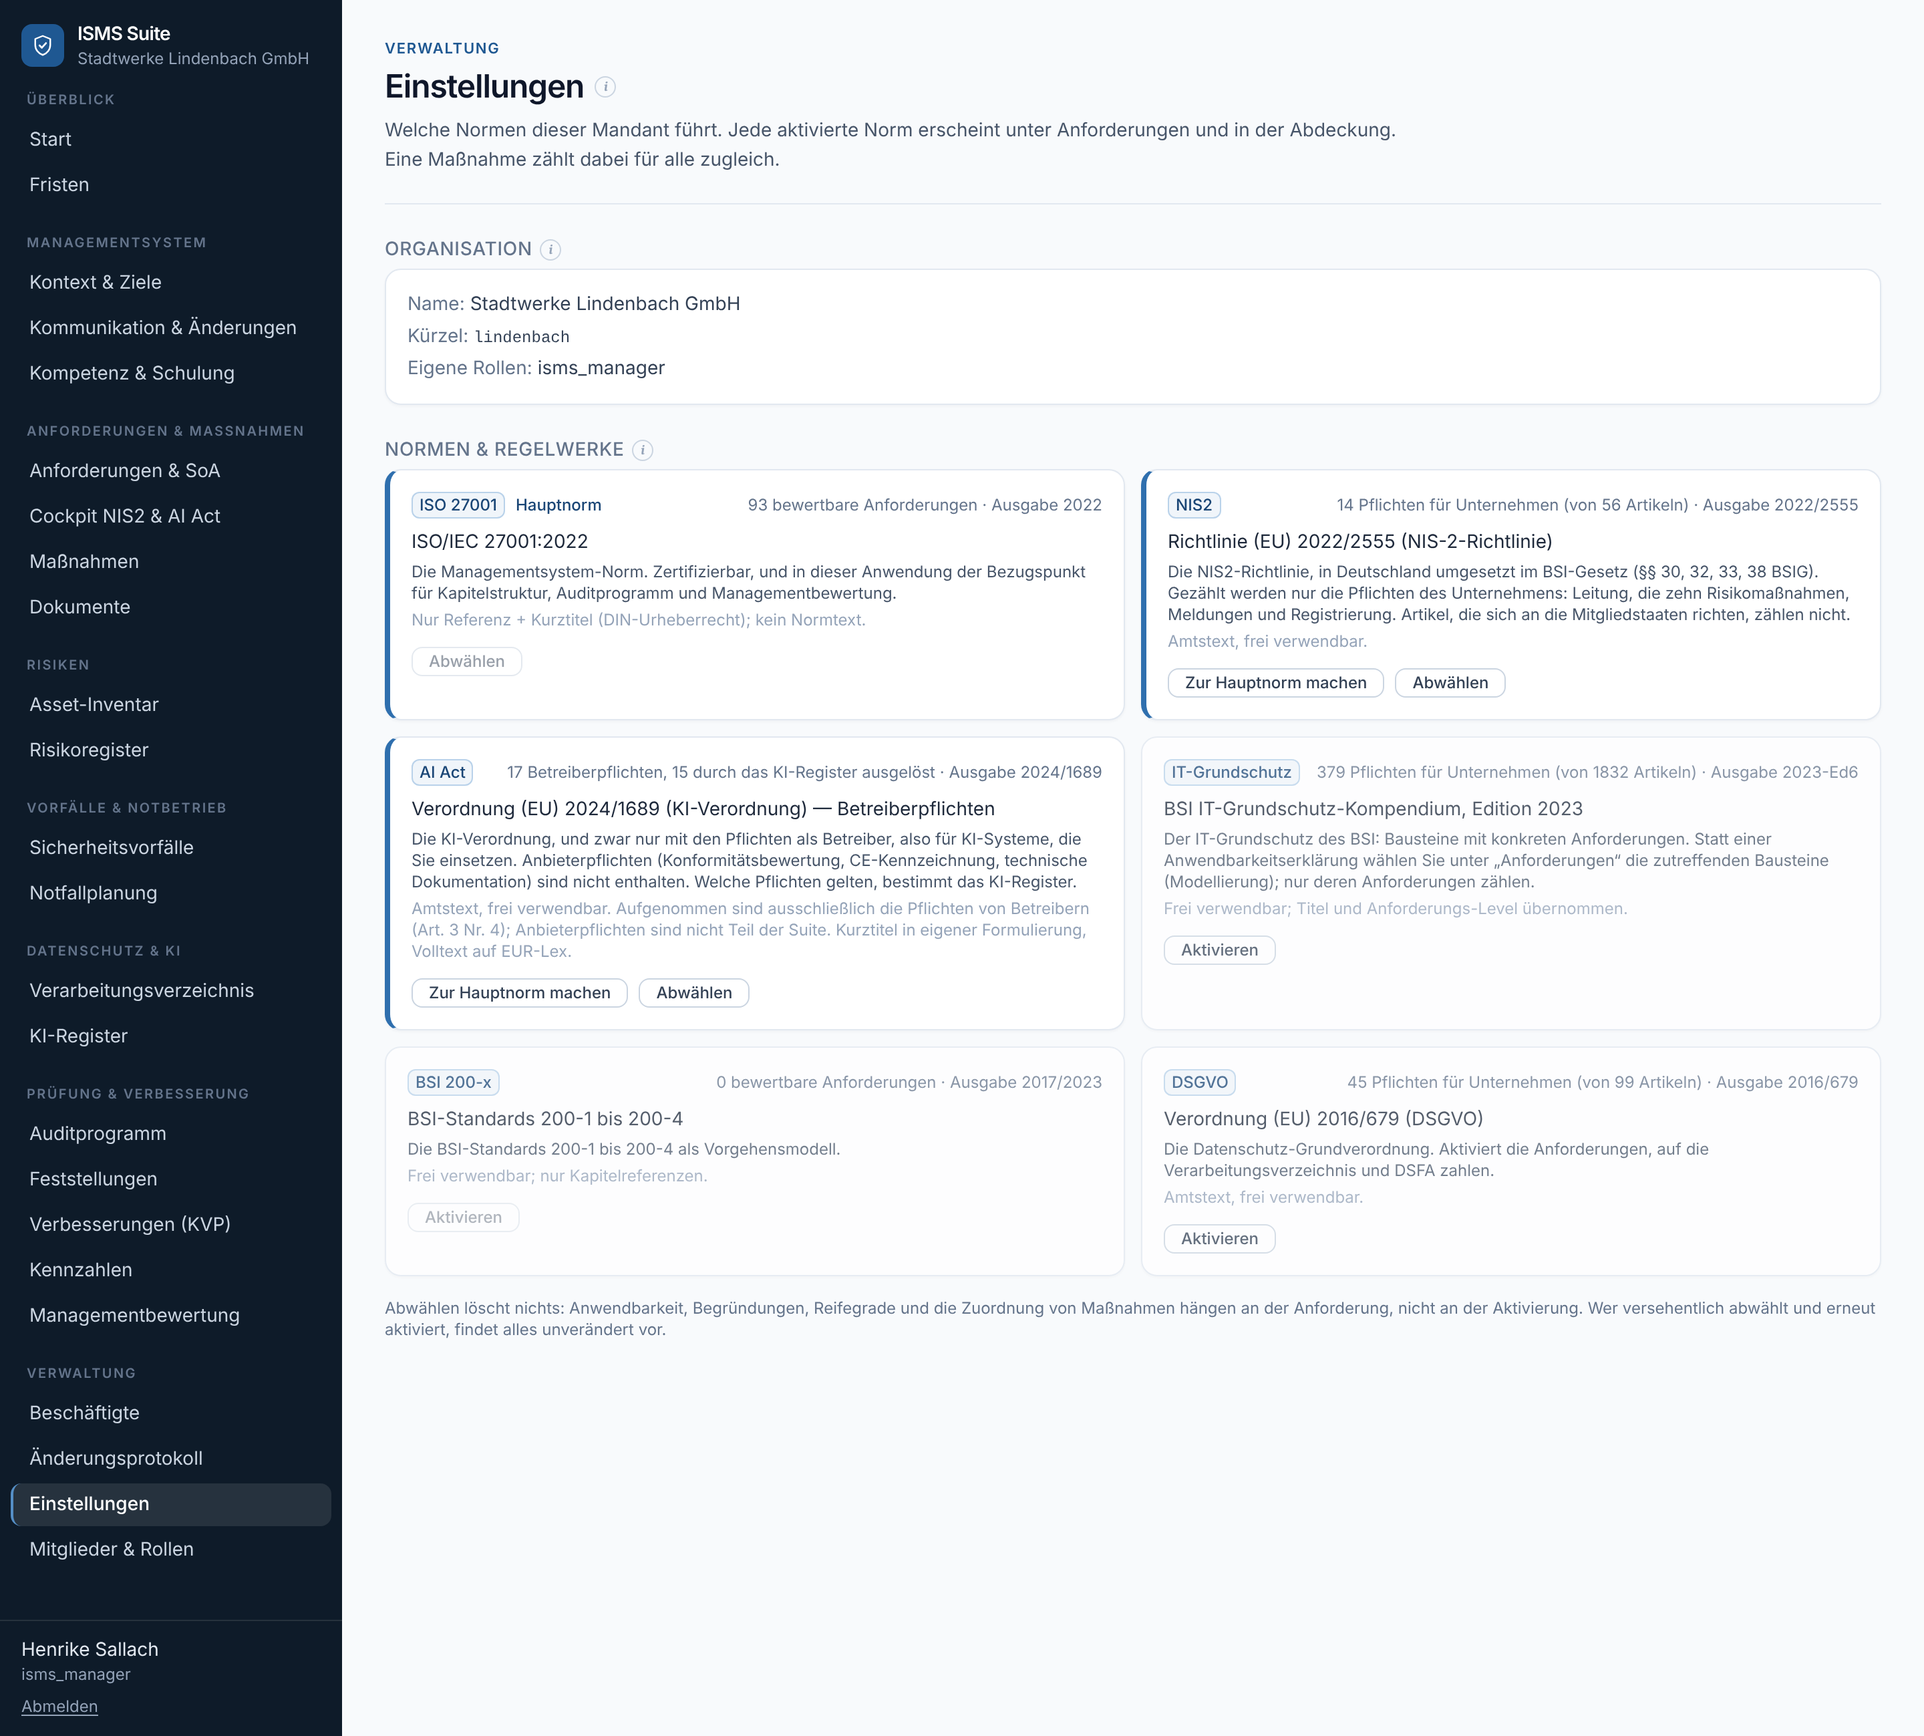
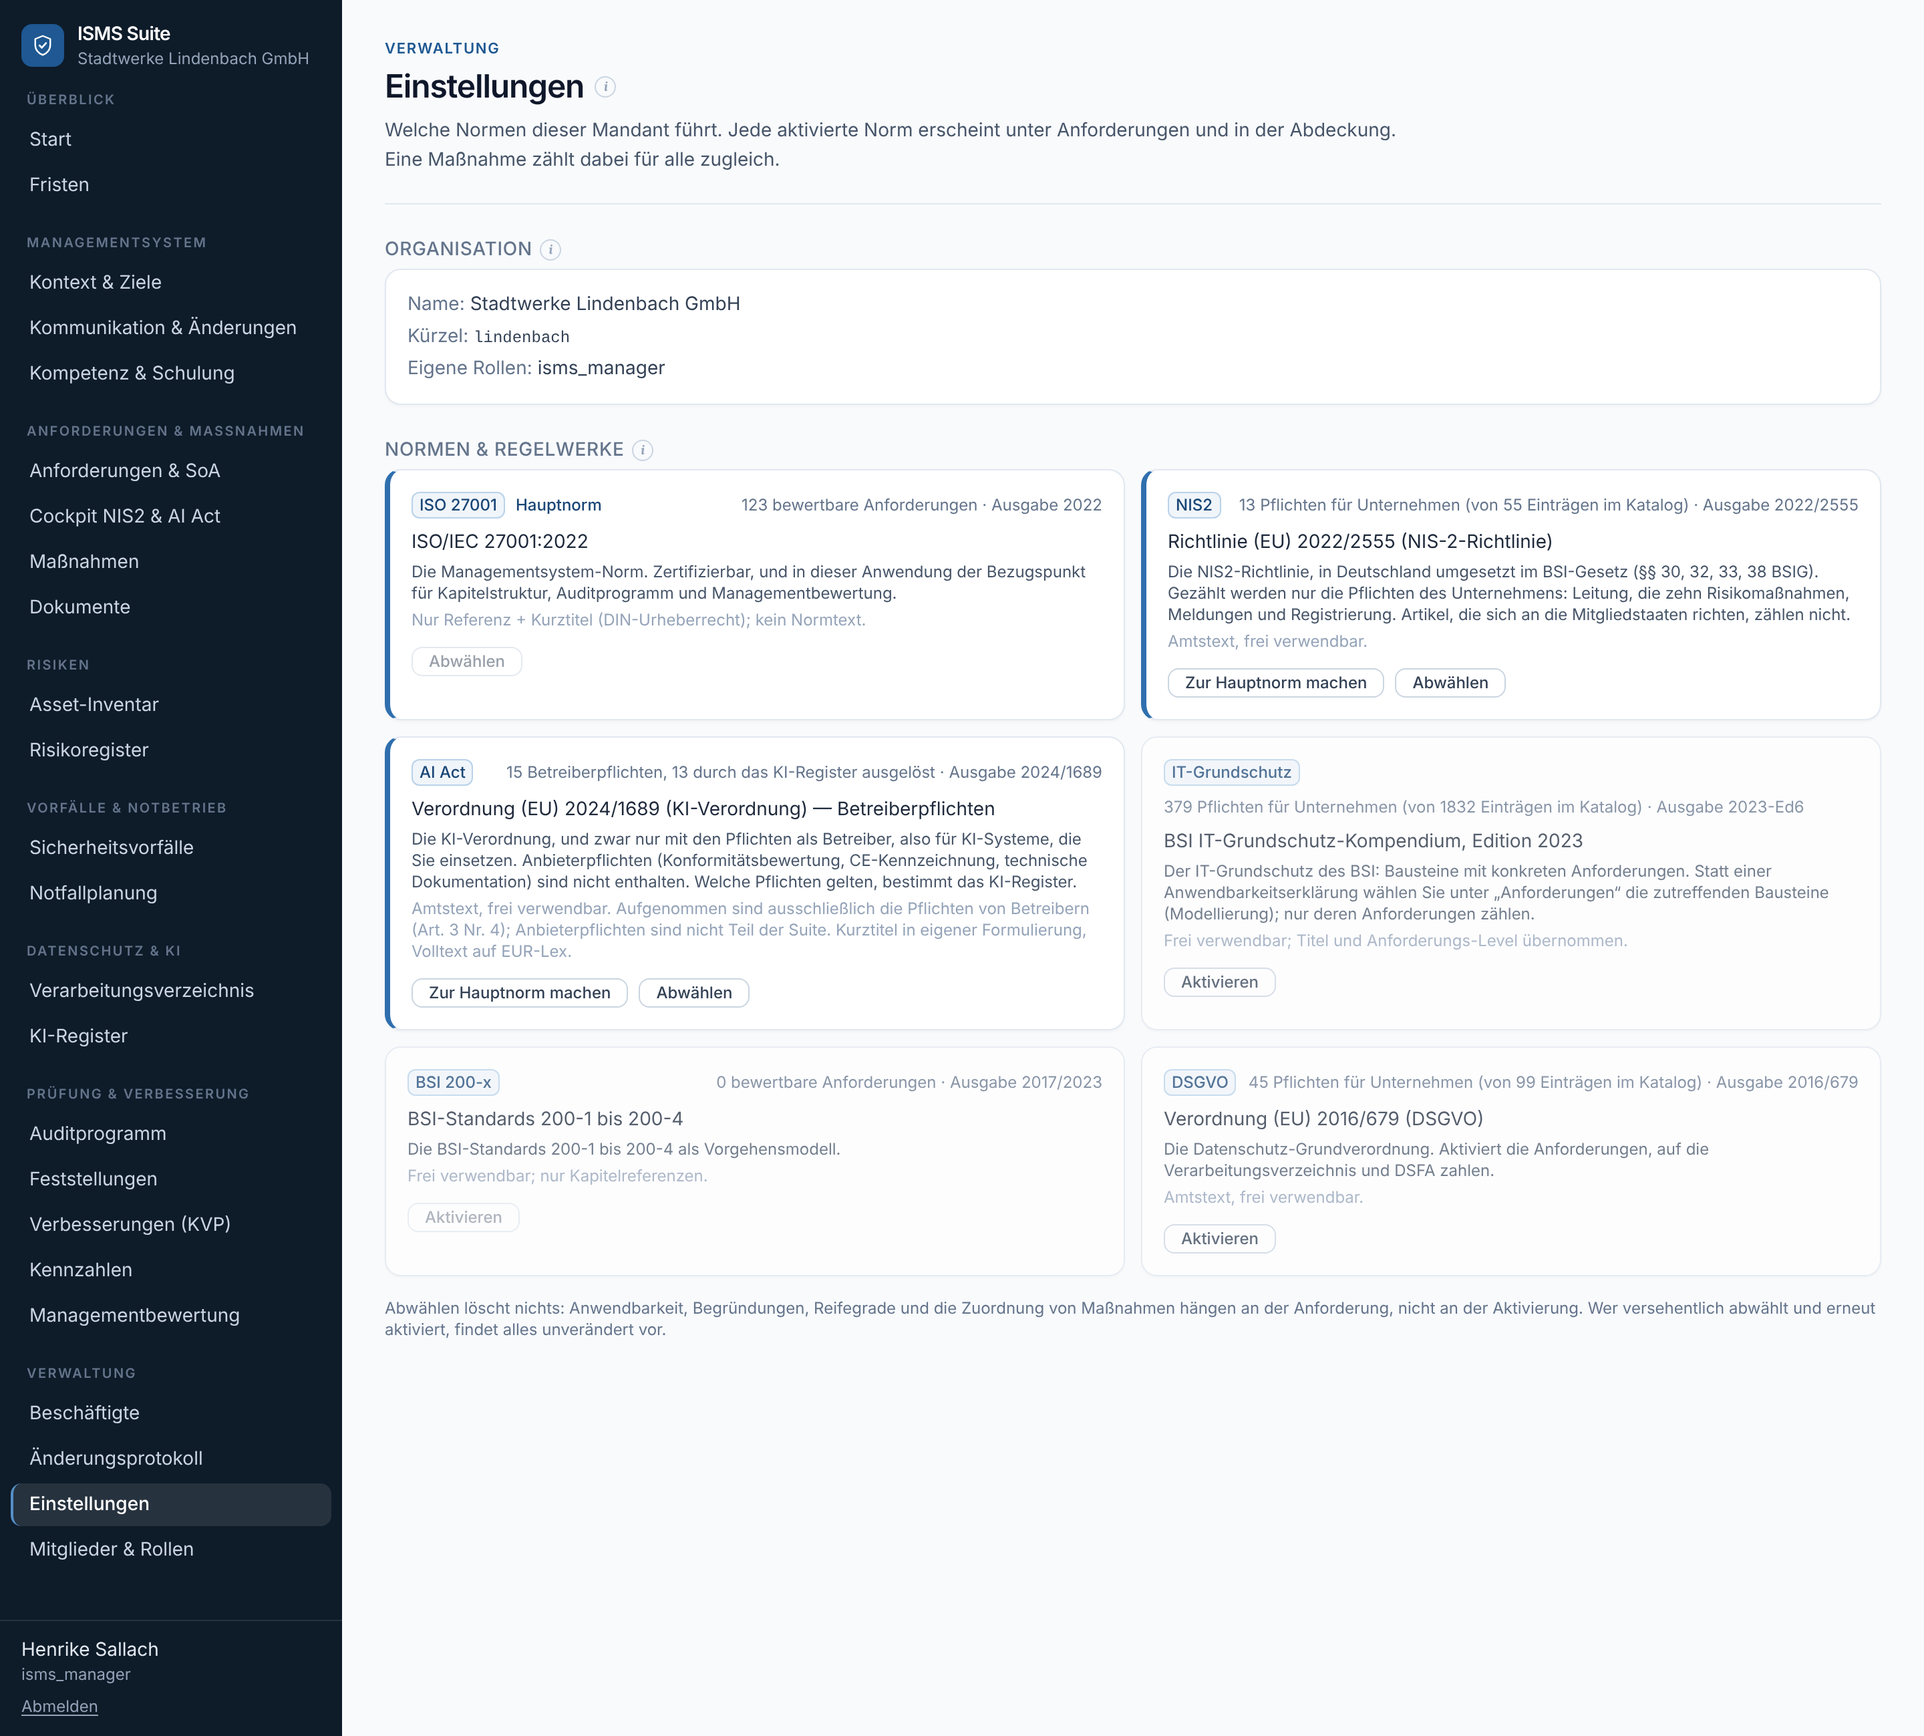
Count frameworks in the settings like the cockpit does
The settings counted requirements by kind, so a parent article such as
NIS2 Art. 21 counted next to its ten letters (14 instead of 13) and ISO
27001 showed 93 next to the 123 of the readiness ring. Both counts now
come from v_assessable_requirement, the rows the cockpit, the SoA and
certification readiness use; a catalogue of chapter references alone
(BSI 200-x) still reads 0 and cannot be activated.

Claude-Session: https://claude.ai/code/session_01XtthhpUTU3sfnsjFJuKoAu

Changed region(s): [[0.5938, 0.4365, 0.9375, 0.5924], [0.7188, 0.2806, 0.875, 0.3118]]

diff --git a/apps/api/src/modules/catalog/catalog.service.ts b/apps/api/src/modules/catalog/catalog.service.ts
@@ -4,6 +4,9 @@ import type { ActivateFrameworkDto } from '@isms/shared';
 import { and, asc, eq, isNull, sql } from 'drizzle-orm';
 import { DbService } from '../../kernel/db/db.service';
 
+/** Hat der Katalog überhaupt bewertbare Einträge jenseits bloßer Kapitelverweise? */
+const ASSESSABLE_CATALOGUE = sql`EXISTS (SELECT 1 FROM v_assessable_requirement w WHERE w.framework_id = ${schema.framework.id} AND w.kind <> 'clause')`;
+
 @Injectable()
 export class CatalogService {
   constructor(private readonly dbs: DbService) {}
@@ -23,9 +26,14 @@ export class CatalogService {
           isActive: sql<boolean>`${schema.tenantFramework.tenantId} IS NOT NULL`,
           isPrimary: sql<boolean>`COALESCE(${schema.tenantFramework.isPrimary}, false)`,
           activatedAt: schema.tenantFramework.activatedAt,
-          requirementCount: sql<number>`(SELECT count(*)::int FROM requirement r WHERE r.framework_id = ${schema.framework.id} AND r.kind IN ('control','anforderung','article','paragraph'))`,
-          // IT-Grundschutz: nur Anforderungen modellierter Bausteine in der gewählten Variante
-          inScopeCount: sql<number>`(SELECT count(*)::int FROM requirement r WHERE r.framework_id = ${schema.framework.id} AND r.kind IN ('control','anforderung','article','paragraph') AND requirement_in_scope(${tenantId}, r.id))`,
+          // Gezählt wird wie im Cockpit und bei der Zertifizierungsreife: die bewertbaren Einträge
+          // aus v_assessable_requirement. Ein übergeordneter Artikel (NIS2 Art. 21 über seinen zehn
+          // Buchstaben) zählt dort nicht mit, ISO-Kapitelpunkte schon. Ein Katalog, der nur aus
+          // Kapitelverweisen besteht (BSI-Standards 200-x), bleibt bei 0 und ist nicht aktivierbar.
+          requirementCount: sql<number>`(SELECT count(*)::int FROM v_assessable_requirement v WHERE v.framework_id = ${schema.framework.id} AND ${ASSESSABLE_CATALOGUE})`,
+          // Im Umfang: NIS2 und DSGVO nur Pflichten des Unternehmens, IT-Grundschutz nur modellierte
+          // Bausteine, AI Act nur, was das KI-Register auslöst.
+          inScopeCount: sql<number>`(SELECT count(*)::int FROM v_assessable_requirement v WHERE v.framework_id = ${schema.framework.id} AND ${ASSESSABLE_CATALOGUE} AND requirement_in_scope(${tenantId}, v.id))`,
           modular: sql<boolean>`EXISTS (SELECT 1 FROM requirement b WHERE b.framework_id = ${schema.framework.id} AND b.kind = 'baustein')`,
           protectionVariant: schema.tenantFramework.protectionVariant,
         })

diff --git a/apps/api/test/auth.e2e.test.ts b/apps/api/test/auth.e2e.test.ts
@@ -69,7 +69,8 @@ describe('Frameworks', () => {
     const iso = res.body.find((f: { key: string }) => f.key === 'ISO27001');
     expect(iso.isActive).toBe(true);
     expect(iso.isPrimary).toBe(true);
-    expect(iso.requirementCount).toBe(93);
+    // Dieselbe Zahl wie die Zertifizierungsreife: 30 Kapitel-Punkte und 93 Controls.
+    expect(iso.requirementCount).toBe(123);
   });
 
   it('aktiviert NIS2 zusätzlich', async () => {
@@ -85,6 +86,21 @@ describe('Frameworks', () => {
         .map((f: { key: string }) => f.key)
         .sort(),
     ).toEqual(['ISO27001', 'NIS2']);
+  });
+
+  it('zählt in den Einstellungen dieselben NIS2-Pflichten wie das Cockpit', async () => {
+    const auth = { Authorization: `Bearer ${token}` };
+    const frameworks = (await http.get('/api/v1/frameworks').set(auth).expect(200)).body as {
+      key: string;
+      requirementCount: number;
+      inScopeCount: number;
+    }[];
+    const nis2 = frameworks.find((f) => f.key === 'NIS2')!;
+    const cockpit = await http.get('/api/v1/coverage-map?framework=NIS2').set(auth).expect(200);
+    expect(nis2.inScopeCount).toBe(13);
+    expect(nis2.inScopeCount).toBe(cockpit.body.rows.length);
+    // Ein Katalog nur aus Kapitelverweisen bleibt bei 0 und lässt sich nicht aktivieren.
+    expect(frameworks.find((f) => f.key === 'BSI_STD200')!.requirementCount).toBe(0);
   });
 });
 

diff --git a/apps/web/src/pages/Settings.tsx b/apps/web/src/pages/Settings.tsx
@@ -129,7 +129,7 @@ export function SettingsPage() {
                     : f.key === 'EU_AI_ACT'
                       ? `${f.requirementCount} Betreiberpflichten${f.isActive ? `, ${f.inScopeCount} durch das KI-Register ausgelöst` : ''}`
                       : f.inScopeCount < f.requirementCount
-                        ? `${f.inScopeCount} Pflichten für Unternehmen (von ${f.requirementCount} Artikeln)`
+                        ? `${f.inScopeCount} Pflichten für Unternehmen (von ${f.requirementCount} Einträgen im Katalog)`
                         : `${f.requirementCount} bewertbare Anforderungen`}
                   {f.version && ` · Ausgabe ${f.version}`}
                 </span>

diff --git a/CLAUDE.md b/CLAUDE.md
@@ -73,7 +73,7 @@ See `docs/architecture/` for the full data model and backend architecture. Key d
 - **Who is addressed (`requirement.applies_to`)**: most of NIS2 (Art. 7–19, 24–46) and of the GDPR (Art. 1–4, 50–99) is addressed to member states and authorities. Those rows carry `applies_to = 'not_addressed'` and `requirement_in_scope()` drops them everywhere: NIS2 counts 13 obligations (Art. 20, 21 (2) a–j, 23, 27), GDPR 45 (Art. 5–49). NIS2 rows carry the German citation in `requirement.alt_ref` (`§ 30 Abs. 2 Nr. 1–10`, `§ 32`, `§ 33`, `§ 38 BSIG`: the NIS2UmsuCG has applied since 6 Dec 2025, and an auditor asks for the paragraph; the letter-to-number mapping a)→1 … j)→10 is positional, backed by a secondary source but **not yet verified against the statute**, see `docs/offene-punkte.md`); SoA list, exports and `NormHint` show it next to the article. Both come from `extract.py`, not by hand. NIS2 → IT-Grundschutz is a curated Baustein-level table in `crosswalk-curated.json`, because the detour via ISO and the BSI table produced noise (MFA landing on Active Directory). ISO → NIS2 covers each of the ten measures with the full control range of its topic (e.g. e) → A.8.8, A.8.25–A.8.31; i) → A.5.9–A.5.13, A.5.15–A.5.18, A.6.1–A.6.6); mapping tables from secondary sources are checked against the catalogue first; one published table put A.6.1 (screening) under risk analysis. Where ISO 27001 is not enough, `requirement.hint` says so in our own words: § 38 (management must approve, oversee and attend training personally), § 32 (authority reporting), § 33 (BSI registration); cockpit and requirement list show it.
 - **Cockpit (`/cockpit`)**: how one framework is met through the others: NIS2 (and the AI Act) obligations against ISO 27001 controls, modelled Grundschutz Bausteine and GDPR articles, from `CoverageMapService`; no data of its own. Status per obligation: `covered` (implemented measure mapped directly), `in_progress`, `indirect` (an implemented measure hangs off a linked requirement: a missing mapping, not a gap; „Zuordnung übernehmen" fixes it in one click), `open`. The flow view is a hand-drawn SVG with three fixed columns, not a Sankey: Sankey layouts push every node without an outgoing link into the last column, which put ISO controls among the Bausteine.
 - **EU AI Act, deployer obligations only**: the suite models the tenant as *Betreiber* (Art. 3 No. 4) and nothing else; provider duties (conformity assessment, CE marking, technical documentation, QMS) are deliberately absent, and the UI says so on the register page. The catalogue `eu-ai-act-2024.json` is curated, not extracted (EUR-Lex is not reachable from the build environment): 18 obligations with own short titles, no body, and `applies_from` (Art. 4/5 since 2 Feb 2025, Art. 50 from 2 Aug 2026, Art. 26/27/86 from 2 Dec 2027 after the AI Omnibus, VO 2026/1744). Obligations only count when the **KI-Register** (`ai_system`) triggers them: `applies_to` `ai_any` / `ai_high_risk` / `ai_fria` / `ai_biometric` / `ai_deepfake`: exactly as modelling triggers Grundschutz. The risk class and `fria_required` are generated columns derived from the answers (Art. 5 practices → prohibited; Annex III area without Art. 6(3) exception or Annex I product → high; Art. 50(3)/(4) → limited; else minimal), mirrored in `packages/shared/src/ai.ts` for the live form and asserted equal by a test. Like the Art. 30 record, the register is checked: a prohibited practice can never go active; a high-risk system needs an oversight person, the provider's instructions, ≥ 6 months log retention, informed workers when used at the workplace and a completed FRIA where Art. 27 requires one (not for Annex III No. 2, critical infrastructure); personal data needs a linked processing activity. A serious incident with a registered system (`POST /incidents/:id/mark-ai-serious`) creates the provider notice (Art. 26(5), immediately) and the Art. 73 authority report (15 / 2 / 10 days).
-- **Framework activation**: the multi-framework promise was unreachable from the UI: the API could activate ISO 27001, IT-Grundschutz, NIS2 and GDPR, but nothing called it. `/settings` does now. Deactivating deletes nothing (applicability, justifications, maturities and measure mappings hang off the requirement, not the activation), but two states are refused because the app cannot represent them meaningfully: no active framework at all, and a tenant with no primary, the primary must be moved first. Counts shown are assessable requirements only (`control`/`anforderung`/`article`/`paragraph`), so a catalogue that carries chapter references alone reads as 0 and cannot be activated.
+- **Framework activation**: the multi-framework promise was unreachable from the UI: the API could activate ISO 27001, IT-Grundschutz, NIS2 and GDPR, but nothing called it. `/settings` does now. Deactivating deletes nothing (applicability, justifications, maturities and measure mappings hang off the requirement, not the activation), but two states are refused because the app cannot represent them meaningfully: no active framework at all, and a tenant with no primary, the primary must be moved first. Counts shown come from `v_assessable_requirement`, the same rows the cockpit, the SoA and certification readiness count (ISO 27001: 123, NIS2 in scope: 13, a parent article such as Art. 21 above its letters does not count); a catalogue that carries chapter references alone (BSI 200-x) reads as 0 and cannot be activated.
 - **Refresh tokens**: rotation with reuse detection, replaying a rotated token revokes the whole family. A rotation younger than `REFRESH_GRACE_MS` (20 s) is exempt and simply reissues, because two tabs booting at once legitimately send the same cookie before the new one is set; without the window they log each other out. The web client refreshes exactly once per boot and returns the session from that call rather than fetching it again, so it never races itself.
 - **Demo data (`pnpm db:seed:demo`)**: a fictitious tenant: Stadtwerke Lindenbach GmbH, a regional grid operator, chosen because all four frameworks bite at once, and it deploys AI in grid control and recruiting, so the AI Act register has real cases. `apps/api/src/demo-seed.ts` drives the same services the API does rather than inserting rows, so reference numbers, four-eyes rules, the BIA cross-checks and RLS all apply; that is also why it doubles as a cross-module integration test (`test/demo-seed.e2e.test.ts`). It parses every DTO through its Zod schema, because defaults only exist at parse time and skipping that is how the first version produced a CIA rating of 5 on a 1–3 scale. The demo is cut for an ISO 27001 + NIS2 presentation (`docs/demo-leitfaden.md`): ISO 27001 (primary), NIS2 and the AI Act stay active; DSGVO and BSI_GS are seeded fully and deactivated at the end, so their data survives a click in `/settings`. Every one of the 13 NIS2 obligations is answered by a measure that also serves ISO 27001, with three states prepared on purpose (M-0012 in progress for the live status change, Art. 21 (2) i) indirect for „Zuordnung übernehmen“, Art. 27 planned because ISO does not cover it); `test/demo-seed.e2e.test.ts` pins them, and an unknown norm reference in the mapping throws. The start page card „Eine Maßnahme, mehrere Regelwerke“ (`GET /dashboard/shared-measures`) and the measure list only count active frameworks; inactive mappings show greyed in the measure detail. Re-running is a no-op (the guard sits in `seedDemoTenant`, not in the CLI entry), and `NODE_ENV=production` is refused since the accounts share a published password. Nothing in the demo data, and nothing in the navigation, may echo the third-party product that served as the original design reference (its screenshots have since been removed from the repository). Hence a grid operator where the reference is automotive, invented people on `.example` addresses, no vendor product names, and section names of our own. Screenshots of our own UI live in `docs/produkt-screenshots/` and are taken by `pnpm --filter @isms/web screenshots`, not by hand, so they cannot quietly go stale.
 - **Audit package (`GET /exports/audit-package.zip`)**: the whole tenant in one ZIP, for the meeting where someone says "show me your ISMS". `package.service.ts` is table-driven, each register is exactly one SQL statement whose column aliases become the CSV header, which is why they are written in German. Enum values go through `packages/shared/src/labels.ts` (`label(column, map)` builds a `CASE`), because `accepted` in a file handed to a supervisory authority is a needless stumbling block; that catalogue is the single home for German wording and replaced the copies in `exports.service.ts`. Uploaded files ship in the original under `15-dateien/` with a manifest giving each one its SHA-256 and the record it hangs off, a register of evidence without the evidence is a list of claims. Streams rather than buffers, since evidence can run to hundreds of megabytes. Note `archiver` is pinned to `^7`: v8 is ESM-only, same constraint as pg-boss.
